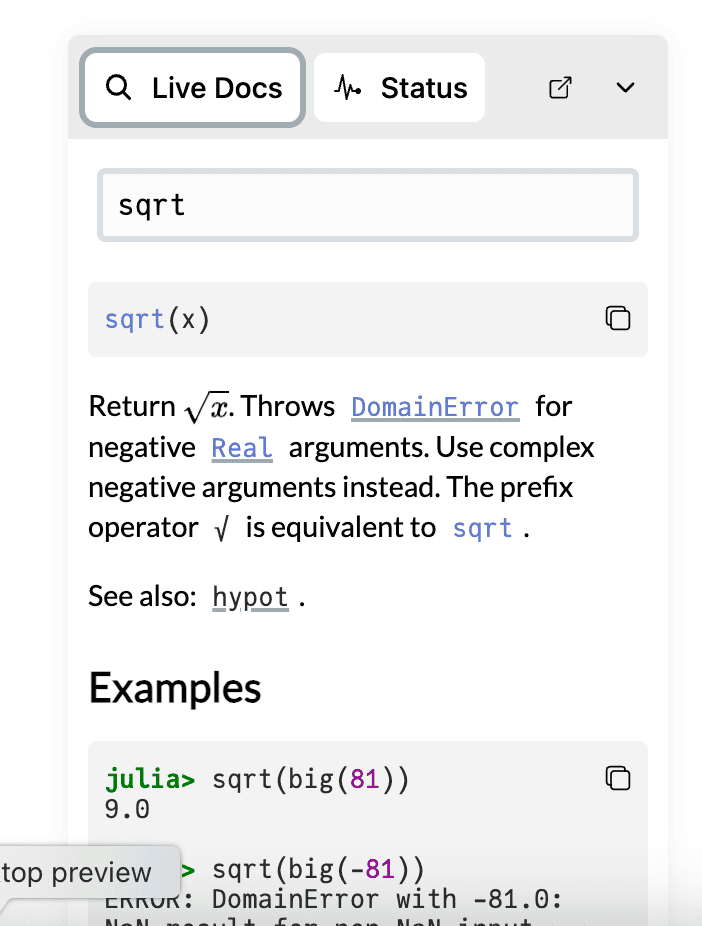
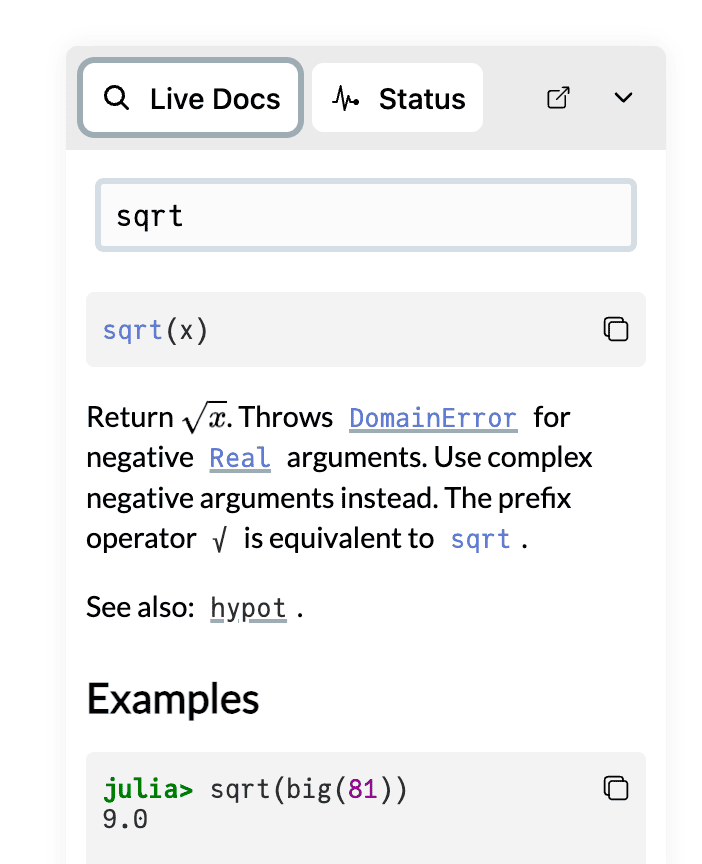
Deploying to dist from @ JuliaPluto/website@38738fe46dfd5756051f93fbec8931f0b5ccc288 🚀

diff --git a/en/docs/packages/index.html b/en/docs/packages/index.html
@@ -128,44 +128,30 @@ window.pluto_recording_audio_url = undefined;
 <li>🎈 Your package environment is <strong>stored inside the notebook file</strong>. When someone else opens your notebook with Pluto, the exact same package environment will be used, and packages will work on their computer.</li>
 </ol>
 <p>🙋 These two features are designed to make it easy to write and share <strong>reproducible notebooks</strong>.</p>
-<br>
-<br>
-<br>
-<h1 id="basic-usage"><a href="#basic-usage" class="anchor"></a>Basic usage</h1>
-<h2 id="installing-and-using-packages"><a href="#installing-and-using-packages" class="anchor"></a>Installing and using packages</h2>
+<h2 id="basic-usage"><a href="#basic-usage" class="anchor"></a>Basic usage</h2>
+<h3 id="installing-and-using-packages"><a href="#installing-and-using-packages" class="anchor"></a>Installing and using packages</h3>
 <p>Pluto will automatically install or remove packages while you work on your notebook. When you import a new package, Pluto will install it:</p>
 <img width="541" height="137" alt="Screenshot of code that imports the Plots package. Pluto says that the package will be installed when you run the cell." src="../../../assets/img/Import Plots package screenshot.png">
 <blockquote>
 <p>🙋 Most packages will write <em>installation instructions</em> in their documentation: like “Run <code>julia&gt; ] install Example</code> to install <code>Example</code>”.</p>
 <p>If you are using Pluto, you should <strong>skip these instructions</strong>, and import the package directly, using <code>import Example</code> or <code>using Example</code>.</p>
 </blockquote>
-<h3 id="logs"><a href="#logs" class="anchor"></a>Logs</h3>
+<h4 id="logs"><a href="#logs" class="anchor"></a>Logs</h4>
 <p>Installing packages can take some time, especially when starting Julia for the first time. Click on the status mark next to a package to view the installation progress. You can click on the <img src="https://cdn.jsdelivr.net/gh/ionic-team/ionicons@5.5.1/src/svg/document-text-outline.svg" alt="📄" width=17px style="filter: var(--image-filters);"> icon to view the logs.</p>
 <img width="541" alt="Screen recording of the package Plots being installed in a cell. The package terminal is visible, where the precompilatino progress is visible in a small terminal." src="https://media.giphy.com/media/EMv3miTVQPsVspplgY/giphy.gif">
-<br>
-<br>
-<h2 id="removing-packages"><a href="#removing-packages" class="anchor"></a>Removing packages</h2>
+<h3 id="removing-packages"><a href="#removing-packages" class="anchor"></a>Removing packages</h3>
 <p>Removing packages is automatic: when you delete code that imports a package, it will be uninstalled from the package environment. It is <em>recommended</em> to restart the notebook process afterwards to get a fresh start.</p>
 <img width="541" alt="Screen recording of a notebook requesting the user to restart the notebook. Clicking on the message restart the notebook, and the message disappears." src="https://media.giphy.com/media/dIFYIHZ2zBFrFDCodM/giphy.gif">
-<br>
-<br>
-<h2 id="updating-packages"><a href="#updating-packages" class="anchor"></a>Updating packages</h2>
+<h3 id="updating-packages"><a href="#updating-packages" class="anchor"></a>Updating packages</h3>
 <p>You can search for and install any available updates by clicking on the <img src="https://cdn.jsdelivr.net/gh/ionic-team/ionicons@5.5.1/src/svg/arrow-up-circle-outline.svg" alt="📄" width=17px style="filter: var(--image-filters);"> icon. A backup of your notebook file will be created in the same folder as your notebook, in case the new versions do not work as expected.</p>
 <img width="541" height="122" alt="Screenshot of the update button visible next to the import of a package" src="../../../assets/img/Update button screenshot.png">
-<br>
-<br>
-<br>
-<br>
-<br>
-<br>
-<br>
-<h1 id="long-waiting-times"><a href="#long-waiting-times" class="anchor"></a>Long waiting times</h1>
+<h2 id="long-waiting-times"><a href="#long-waiting-times" class="anchor"></a>Long waiting times</h2>
 <p>Julia needs to download and precompile packages before you can use them. When using many packages, this can take a <strong>couple of minutes</strong>. Before installing a new package, Pluto can give an estimate of how long it will take to install:</p>
 <img width="541" alt="Screenshot of code that imports the DataFrames package. Pluto says that the package will be installed when you run the cell, and it gives an estimate of 53 second for the time it will take to install." src="https://github.com/fonsp/Pluto.jl/assets/6933510/942dbfd9-9e25-452e-beb6-2e759be3becf">
-<h2 id="pre-installed-versions-are-preferred"><a href="#pre-installed-versions-are-preferred" class="anchor"></a>Pre-installed versions are preferred</h2>
+<h3 id="pre-installed-versions-are-preferred"><a href="#pre-installed-versions-are-preferred" class="anchor"></a>Pre-installed versions are preferred</h3>
 <p>When adding a package to your notebook, Pluto will ask Pkg to install a version that was previously downloaded on your computer. This was added in May 2024, on older versions, Pkg would always try to install the newest versions.</p>
 <p>This should make it much faster to open a notebook and import some packages that you already used recently. If you need the latest versions, then you have to use the <strong>Update</strong> button after adding the packages.</p>
-<h2 id="package-installations-are-shared-between-environments"><a href="#package-installations-are-shared-between-environments" class="anchor"></a>Package installations are shared between environments</h2>
+<h3 id="package-installations-are-shared-between-environments"><a href="#package-installations-are-shared-between-environments" class="anchor"></a>Package installations are shared between environments</h3>
 <p>In Julia, packages are always installed globally, while <em>environments</em> (including notebooks) only store <strong>version information</strong>, not the package code itself. This means that multiple notebooks that use the same version of <code>Plots</code> will not lead to more disk usage or precompile time. (This is different from <code>venv</code> in Python/pip, or <code>node_modules</code> in NodeJS/npm, where every environment contains copies of package code by default.) Julia’s package manager is designed to work well with many package environments on the same computer.</p>
 <p>Of course, if different notebooks use different version of the same package, and you work on both in parallel, then source files for both versions will exist on your computer. A small price to pay for simpler reproducibility!</p>
 <p>In Julia 1.6, you can clean up package files that have not been used in a while with <code>import Pkg; Pkg.gc()</code>. In Julia 1.7 and up, this will be done <a href="https://github.com/JuliaLang/Pkg.jl/pull/2567">automatically</a>.</p>

diff --git a/en/docs/packages-advanced/index.html b/en/docs/packages-advanced/index.html
@@ -124,10 +124,7 @@ window.pluto_recording_audio_url = undefined;
 <h1 id="advanced-set-up-an-environment-with-pkgactivate"><a href="#advanced-set-up-an-environment-with-pkgactivate" class="anchor"></a>Advanced: set up an environment with <code>Pkg.activate</code></h1>
 <p>Pluto’s package manager is enabled for all users, for ease of use and to promote reproducibility in scientific computing. There is no option to disable the behaviour <em>globally</em> (for your entire Pluto session). Instead, Pluto will detect notebooks that use <code>Pkg.activate</code> to set up an environment explicitly, and uses the old behaviour for those notebooks.</p>
 <p>The philosophy here is that everyone should have a reproducible package environment <strong>by default</strong>, without having to do anything. This takes priority over other use cases, and hence <em>not</em> using the built-in package manager requires some extra work.</p>
-<br>
 <p><strong>Any notebook that calls <a href="https://pkgdocs.julialang.org/v1/api/#Pkg.activate"><code>Pkg.activate</code></a> will not use Pluto’s package management,</strong> and run in ‘backwards compatibility mode’. The <code>Pkg.activate</code> call should be placed directly in your notebook code: it is detecting using the same syntax analysis used for reactivity.</p>
-<br>
-<br>
 <h2 id="pattern-the-global-environment"><a href="#pattern-the-global-environment" class="anchor"></a>Pattern: The “global environment”</h2>
 <p>If you do not intend on sharing a notebook file and you want to use your global package environment (called <code>(v1.6)</code> or similar, the one you get when you launch the Julia REPL), then you can call <code>Pkg.activate()</code> without any arguments.</p>
 <blockquote>
@@ -143,8 +140,6 @@ window.pluto_recording_audio_url = undefined;
 end
 </code></pre>
 <p>When running this in Pluto (try it out!), you will notice that the status marks next to packages disappear, and Pluto is running in ‘backwards compatibility mode’. Packages will no longer be installed or removed automatically, you have to use the Pkg REPL to do this yourself.</p>
-<br>
-<br>
 <h2 id="pattern-the-shared-environment"><a href="#pattern-the-shared-environment" class="anchor"></a>Pattern: The “shared environment”</h2>
 <p>If you have multiple notebooks in a repository and you want to use share a Pkg environment between them, then you can call <code>Pkg.activate(path_to_environment)</code>. You can use <code>@__DIR__</code> to get the path of the notebook’s folder, and <code>joinpath(@__DIR__, &quot;..&quot;)</code> to get its parent, <code>joinpath(@__DIR__, &quot;..&quot;, &quot;..&quot;)</code> for the parent’s parent, etc.</p>
 <p>The function <code>Base.current_project()</code> can be used to <strong>automatically</strong> find the closest parent directory that contains a <code>Project.toml</code>, in most cases this is what you want.</p>
@@ -170,8 +165,6 @@ end
 end
 </code></pre>
 <p>When running this in Pluto, you will notice that the status marks next to packages disappear, and Pluto is running in ‘backwards compatibility mode’. Packages will no longer be installed or removed automatically, you have to use the Pkg REPL to do this yourself.</p>
-<br>
-<br>
 <h2 id="pattern-the-pkg-cell"><a href="#pattern-the-pkg-cell" class="anchor"></a>Pattern: The “Pkg cell”</h2>
 <p>When adding packages, Pluto’s default package management will always install the latest version from the registry. If you need to install a specific version or branch of a package, or a package is not registered, you can use a “Pkg cell”.</p>
 <p>A common pattern is a so-called “Pkg cell”, placed at the top of a notebook:</p>
@@ -188,15 +181,6 @@ end
 </code></pre>
 <p>This will 1) activate a temporary environment using <code>Pkg.activate</code>, 2) add the required packages, 3) import them with <code>using</code>. When running this in Pluto (try it out!), you will notice that the status marks next to packages disappear, and Pluto is running in ‘backwards compatibility mode’. Packages will no longer be installed or removed automatically, you have to use the Pkg REPL to do this yourself.</p>
 <p>Placing all code in a single <code>begin</code> block ensures that the lines will run in the correct order.</p>
-<br>
-<br>
-<br>
-<br>
-<br>
-<br>
-<br>
-<br>
-<br>
 <h1 id="advanced-edit-the-notebook-environment"><a href="#advanced-edit-the-notebook-environment" class="anchor"></a>Advanced: edit the notebook environment</h1>
 <p>Pluto.jl includes a helper function <code>Pluto.activate_notebook_environment</code> that activates a notebook Pkg environment in the REPL:</p>
 <pre><code class="language-julia-repl">julia&gt; import Pluto

diff --git a/en/docs/markdown/index.html b/en/docs/markdown/index.html
@@ -132,7 +132,7 @@ This text is in **bold** and _italic_.
 <p>This is what that looks like in the notebook:</p>
 <img src="../../../assets/img/markdown.png" alt="Markdown in cell" width="998" height="222">
 </blockquote>
-<h2 id="complete-guide"><a href="#complete-guide" class="anchor"></a>Complete guide</h2>
+<h3 id="complete-guide"><a href="#complete-guide" class="anchor"></a>Complete guide</h3>
 <p>Read more about Markdown in Pluto here:</p>
 <div class="pe-container">
 <div class="pe-card">
@@ -243,11 +243,11 @@ box-shadow: 0 2px 10px rgb(0 0 0 / 14%);
 	}
 </style>
 </div>
-<h2 id="keyboard-shortcut"><a href="#keyboard-shortcut" class="anchor"></a>Keyboard shortcut</h2>
+<h3 id="keyboard-shortcut"><a href="#keyboard-shortcut" class="anchor"></a>Keyboard shortcut</h3>
 <p>When editing a cell, you can press <code>Cmd+M</code> or <code>Ctrl+M</code> to automatically add or remove the <code>md&quot;&quot;&quot;</code> string macro.</p>
-<h2 id="julia-cells-and-markdown-cells"><a href="#julia-cells-and-markdown-cells" class="anchor"></a>Julia cells and Markdown cells</h2>
+<h3 id="julia-cells-and-markdown-cells"><a href="#julia-cells-and-markdown-cells" class="anchor"></a>Julia cells and Markdown cells</h3>
 <p>Some notebook environments have different <strong>cell types</strong>: a <em>code</em> cell and a <em>Markdown</em> cell. In Pluto, there is <strong>only one cell type</strong>: a Julia cell. But you can use the Julia string macro <code>md&quot;</code> to write Markdown inside of Julia! 🤯</p>
-<h1 id="markdown-syntax"><a href="#markdown-syntax" class="anchor"></a>Markdown syntax</h1>
+<h3 id="markdown-syntax"><a href="#markdown-syntax" class="anchor"></a>Markdown syntax</h3>
 <p>The library that provides the <code>md&quot;</code> macro is the Julia standard library (stdlib) <a href="https://docs.julialang.org/en/v1/stdlib/Markdown/">Markdown</a>. This library might work a bit differently from the Markdown that you are used to in GitHub, Jupyter, or elsewhere.</p>
 <h1 id="other-markdown-libraries"><a href="#other-markdown-libraries" class="anchor"></a>Other Markdown libraries</h1>
 <p>The Markdown stdlib is <code>using</code>ed by default in Pluto, but you are free to use other Markdown libraries. You can also use something other than Markdown, like HTML (with <a href="https://github.com/JuliaPluto/HypertextLiteral.jl">HypertextLiteral.jl</a>).</p>

diff --git a/en/docs/education/index.html b/en/docs/education/index.html
@@ -173,7 +173,7 @@ window.pluto_recording_audio_url = undefined;
 <h4 id="plutosplitterjl"><a href="#plutosplitterjl" class="anchor"></a>PlutoSplitter.jl</h4>
 <p>One tool that may help you with guided assignments is <a href="https://github.com/Technici4n/PlutoSplitter.jl">PlutoSplitter.jl</a>. This package lets you write a homework notebook with all the solutions already filled in, and then split it into two files: one with the solutions, and one with all answers removed. This lets you work on your answer-checking code easily, and then generate an assignment file for students.</p>
 <img src="../../../assets/img/collatz/c8.png" aria-hidden="true" width="700" height="200">
-<h2 id="why-julia-for-education"><a href="#why-julia-for-education" class="anchor"></a>Why Julia for education?</h2>
+<h2 id="why-julia-for-education"><a href="#why-julia-for-education" class="anchor"></a>Why <em>Julia</em> for education?</h2>
 <p>We believe that Julia is a great language for scientific education! Here are the main advantages from an educational perspective:</p>
 <h3 id="code-as-communication-tool"><a href="#code-as-communication-tool" class="anchor"></a>Code as communication tool</h3>
 <p>Julia has very expressive syntax, which can make your code look <strong>similar to the math or pseudocode</strong> that you use in your course. We think that (well-written) Julia code is relatively easy to understand by students and scientists, even if they don’t know Julia that well. <a href="https://www.youtube.com/watch?v=qGW0GT1rCvs">Watch the TED talk by Alan Edelman about this topic.</a></p>

diff --git a/en/docs/live-docs/index.html b/en/docs/live-docs/index.html
@@ -123,7 +123,7 @@ window.pluto_recording_audio_url = undefined;
 <div class="markdown">
 <h1 id="live-docs"><a href="#live-docs" class="anchor"></a>Live Docs</h1>
 <p>The Live Docs tab in Pluto lets you read documentation while you code. Julia has a built-in <a href="https://docs.julialang.org/en/v1/manual/documentation/">documentation system</a>, which lets Pluto query the documentation of any Julia object.</p>
-<img alt="Screenshot of the Live Docs tab, showing documentation for the sqrt function." src="../../../assets/img/live docs sqrt.png" width="702" height="926" style="max-width: 300px;">
+<img alt="Screenshot of the Live Docs tab, showing documentation for the sqrt function." src="../../../assets/img/live docs sqrt.png" width="702" height="864" style="max-width: 300px;">
 <h2 id="documentation-while-you-type"><a href="#documentation-while-you-type" class="anchor"></a>Documentation while you type</h2>
 <p>While you are typing code, or when you select some text, Live Docs will automatically start searching for documentation. This means that you can just leave the window open, and it will quietly search documentation while you work. Whenever you need to know how a function works, just take a look at the Live Docs tab.</p>
 <p>You can also search for documentation directly, by typing something into the search box.</p>
